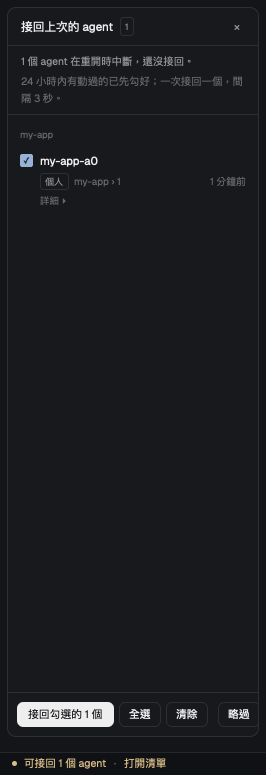
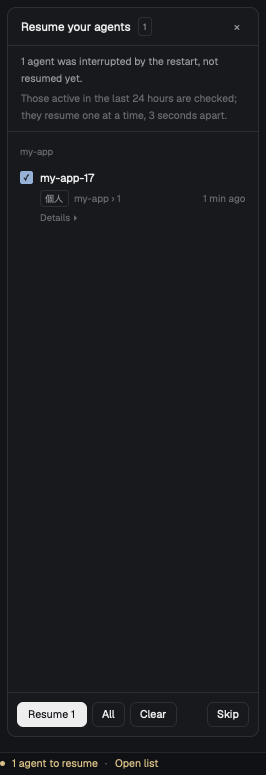
agent-restore: English preview and shorter English button labels
Claude-Session: https://claude.ai/code/session_01SbQ9Wu8UxS9RikY9LZ3aHF

diff --git a/agent-restore/mods/agent-restore/strings.js b/agent-restore/mods/agent-restore/strings.js
@@ -30,8 +30,8 @@ const en = {
   hint: "Those active in the last 24 hours are checked; they resume one at a time, 3 seconds apart.",
   resumedCount: (n) => `✓ Resumed ${n}`,
   resumingButton: "Resuming…",
-  resumeButton: (n) => `Resume ${n} checked`,
-  selectAll: "Select all",
+  resumeButton: (n) => `Resume ${n}`,
+  selectAll: "All",
   clear: "Clear",
   skip: "Skip",
   // bar: why a resume failed (shown in the panel)

diff --git a/agent-restore/RECIPE.md b/agent-restore/RECIPE.md
@@ -56,8 +56,8 @@ Top to bottom:
        2. `Agent replied last`, the same;
        3. `Resume command`, with a small `Copy` chip (`Copied` for 1.5 s) and the command in the terminal font (`settings().font_family`, else JetBrains Mono) at 10.5 px.
 4. **Footer**, 10 px padding, 6 px gaps, `border` line above. Buttons are 28 px tall, radius 7, 12 px text.
-   - **Primary button:** `Resume N checked`, or `Resuming…` while busy. 12 px side padding, `solid` fill with `solid_foreground` text; `raised` with `dim` text when disabled.
-   - **Outlined buttons:** `Select all`, `Clear`, a spacer, then `Skip`. 10 px side padding, 1 px `border`, `foreground` text (`dim` when disabled), `hover` background.
+   - **Primary button:** `Resume N` (English; zh-TW `接回勾選的 N 個`), or `Resuming…` while busy. 12 px side padding, `solid` fill with `solid_foreground` text; `raised` with `dim` text when disabled.
+   - **Outlined buttons:** `All`, `Clear`, a spacer, then `Skip`. Keep the English labels this short: at 266 px the longer `Resume N checked` / `Select all` pushed `Skip` out of the panel. 10 px side padding, 1 px `border`, `foreground` text (`dim` when disabled), `hover` background.
 
 With `lang: "zh-TW"`, every string is the Traditional Chinese one from `strings.js`.
 
@@ -95,10 +95,10 @@ With `lang: "zh-TW"`, every string is the Traditional Chinese one from `strings.
 - **`Details ▸`:** toggles the details box.
 - **`Copy`:** puts the command on the clipboard with `pbcopy`.
 - **`×`:** `layout.hide {id: "panel"}`.
-- **`Select all`:** checks every row that is not queued or resuming.
+- **`All`:** checks every row that is not queued or resuming.
 - **`Clear`:** unchecks every row.
 - **`Skip`:** sends `agent-restore.skip:<addresses>`. The bar deletes those entries, unless one is queued.
-- **`Resume N checked`:** sends `agent-restore.resume:<addresses>` for the checked rows whose tab still exists.
+- **`Resume N`:** sends `agent-restore.resume:<addresses>` for the checked rows whose tab still exists.
 
 **Checked at first.** A row is checked the first time the list sees it, if it was active in the last 24 hours and its tab still exists.
 

diff --git a/agent-restore/mods/agent-restore/README.md b/agent-restore/mods/agent-restore/README.md
@@ -133,8 +133,8 @@ this file in Herdr's home, `~/.config/herdr-app/space-groups.json`:
 - **Details:** your last message, the agent's last reply, and the full resume command with a Copy button (`pbcopy`).
 - **Checked at first:** rows active in the last 24 hours. The others are listed but not checked.
 - **Buttons:**
-  - Resume N checked;
-  - Select all;
+  - Resume N;
+  - All;
   - Clear;
   - Skip: drops the checked rows from the list and the snapshot without resuming them.
 - **When it opens by itself:** once per app run, the first time something can be resumed. Clicking the bar opens it again.
@@ -190,7 +190,6 @@ Not tested yet:
 - retrying after a failure;
 - pressing the buttons by hand;
 - a tab closed before the restart;
-- the English interface inside the app: only `herdr-app check` and a script that compares the string tables;
 - Linux.
 
 ## Known limits

diff --git a/README.md b/README.md
@@ -23,7 +23,7 @@ Read each mod's README first. **agent-restore runs `hc` and shell commands, read
 
 UI text is English by default; set the block prop `"lang": "zh-TW"` for Traditional Chinese.
 
-**Status:** agent-restore has been tested by killing one terminal's shell (how herdr-core sees a lost program), not yet through a real reboot, and its English UI has only been checked in code, not on screen. See its README for what is and isn't tested. Bug reports welcome.
+**Status:** agent-restore has been tested by killing one terminal's shell (how herdr-core sees a lost program) (in both English and Traditional Chinese), but not yet through a real reboot. See its README for what is and isn't tested. Bug reports welcome.
 
 ## License
 
